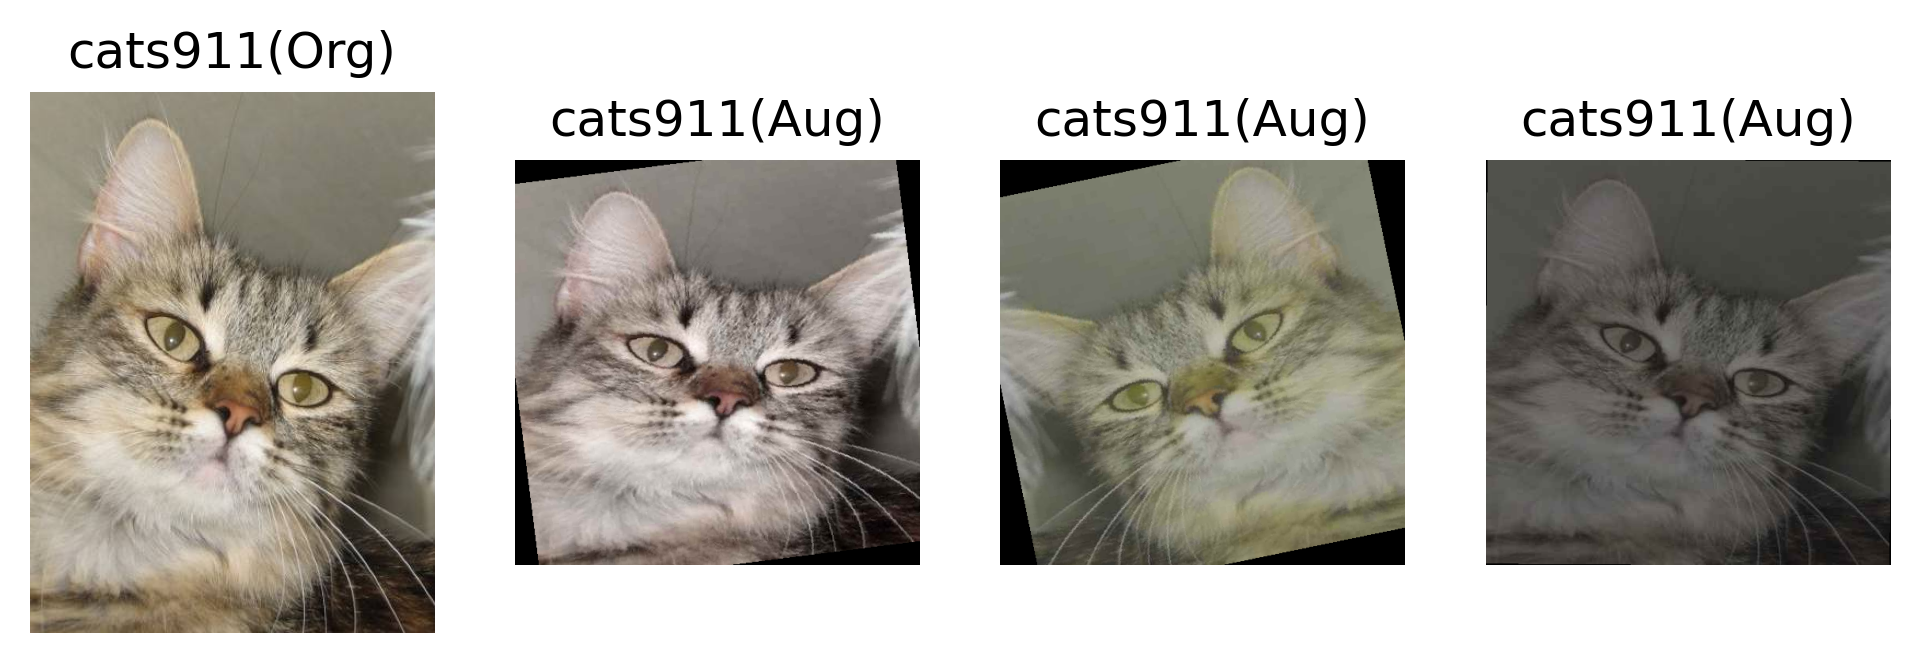
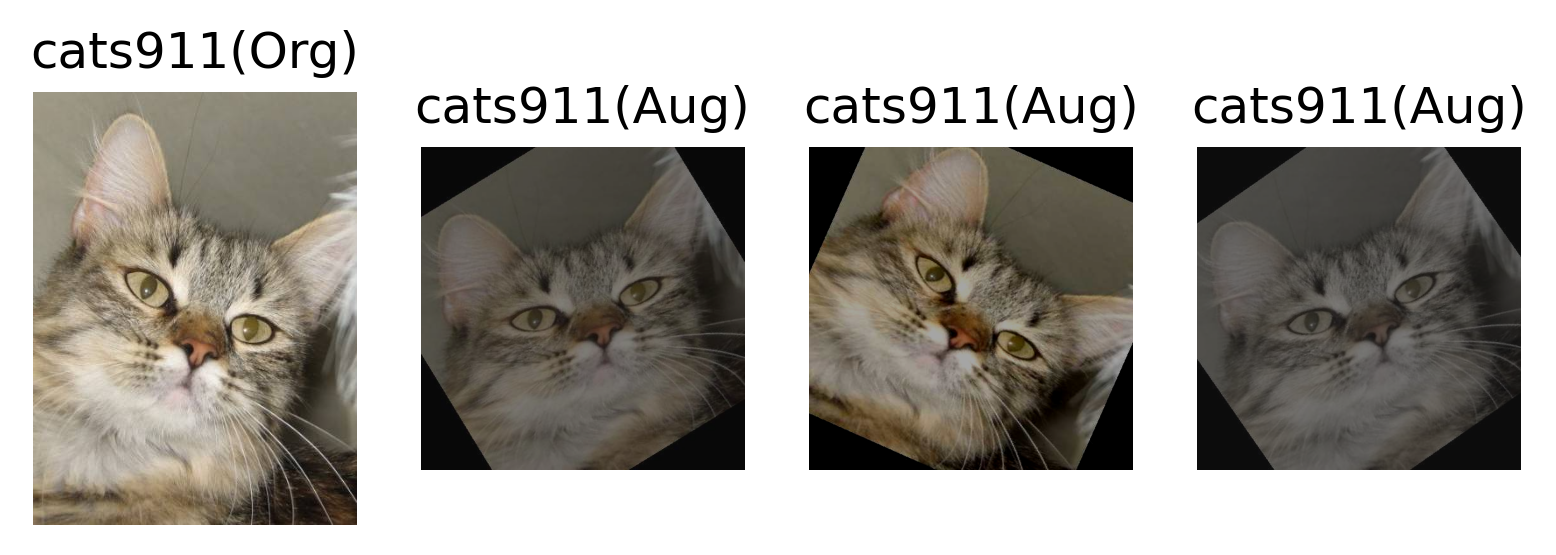
Minor fixes in dataset

diff --git a/model.py b/model.py
@@ -13,7 +13,7 @@ from datetime import datetime
 from torch.utils.data import Dataset
 from torchvision.transforms import v2
 
-# Find device to use (graphic acceleration if available)
+# Find device to use (graphic acceleration if available) (not used right now?)
 device = "cuda" if torch.cuda.is_available() else "mps" if torch.backends.mps.is_available() else "cpu"
 print("Using device: " + device)
 
@@ -22,25 +22,21 @@ train_dir = "./catdog_data/train/"
 test_dir = "./catdog_data/test/"
 valid_dir = "./catdog_data/validation/"
 
+# Seed for random numbers (based on current time, change to set fixed seed)
+rand_seed = datetime.now().timestamp()
 # Set seed for image selector
-rand_seed = 314159265
-#rand_seed = datetime.now().timestamp()
 random.seed(rand_seed)
-# Set seed for pytorch (...)
+# Set seed for pytorch
 torch.manual_seed(rand_seed)
 
 # Image transformation properties
-image_size =   [512,512]
-flip_prob =    0.5
-bright_range = [0.5,1.5]
-contr_range =  [0.5,1.5]
-satr_range =   [0.5,1.5]
-hue_range =    [-0.15, 0.15]
-deg_range =    [-15,15]
-transl_range = [0,0.15]
-scale_rage =   [0.75,1.5]
-shear_range =  [-1,1]
-qual_range =   np.random.randint(15,100)
+image_size   =   [512,512]
+flip_prob    =   0.5
+deg_range    =   [-45,45]
+qual_range   =   np.random.randint(15,100)
+bright_range =   [0.5,1.5]
+contr_range  =   [0.5,1.5]
+satr_range   =   [0.5,1.5]
 
 # Define transform to use for data augmentation
 data_transform = v2.Compose([
@@ -48,10 +44,9 @@ data_transform = v2.Compose([
     v2.RandomHorizontalFlip(p = flip_prob),             # Horizontally flip images randomly
     v2.RandomRotation(degrees = deg_range),             # Rotate and expand the image
     v2.JPEG(quality = qual_range),                      # Add JPEG compression noise randomly
-    v2.ColorJitter(brightness = bright_range,           # Randomly change brightness, contrast, saturation, hue (within reason)
+    v2.ColorJitter(brightness = bright_range,           # Randomly change brightness, contrast, saturation (within reason)
                            contrast = contr_range, 
-                           saturation = satr_range,    
-                           hue = hue_range
+                           saturation = satr_range
                            ),
 ])
 
@@ -60,14 +55,12 @@ class CatsDogsDataset(Dataset):
 
     # Initialization function for dataset
     def __init__(self, directory, transform = None):
-
         # Set the directory (train, valid, test)
         self.directory = directory
         # List of all classes to classify (folders in directory, ignores hidden files)
         self.classes = [f for f in os.listdir(directory) if not f.startswith('.')]
         # List of all the images in dataset
         self.images = self.list_images()
-
         return
     
     # Return size of dataset (numer of all images)
@@ -97,7 +90,6 @@ class CatsDogsDataset(Dataset):
         plt.axis("Off")
         plt.imshow(image)
         plt.show()
-    
         return
 
     # Just to showcase how the original and randomly transformed image
@@ -112,10 +104,8 @@ class CatsDogsDataset(Dataset):
         # Apply the transformations (a couple of times)
         n_transforms = 3
         image_transformed = np.empty(n_transforms, dtype=object)
-
         # Setup matplotlib and show/save sample figure
         fig, ax = plt.subplots(nrows=1, ncols=4)
-        fig.set_size_inches(8,3)
         # Show original
         ax[0].imshow(image)
         ax[0].set_title(rand_image)
@@ -128,26 +118,21 @@ class CatsDogsDataset(Dataset):
             ax[i+1].set_title(rand_class + str(rand_image).split(".")[1] + "(Aug)")
             ax[i+1].axis("Off")
         # Save figure
-        plt.savefig("./samples/" + rand_class.split("s")[0] + str(rand_image).split(".")[1] + ".png", bbox_inches="tight",dpi=300)
+        if save == True: plt.savefig("./samples/" + rand_class.split("s")[0] + str(rand_image).split(".")[1] + ".png", bbox_inches="tight",dpi=300)
         if show == True: plt.show()
-        
         return
     
-    # Function that returns all images in dataset
+    # Function that returns all images in dataset (their paths and names)
     def list_images(self):
-
-        arr = []
-        dir = []
+        # Define relevant arrays
+        arr, dir = [], []
+        # Iterate over all classes, and over all files in each class subfolder
         for class_type in self.classes:
             for file in os.listdir(self.directory + class_type + "/"):
+                # Append file path and file to arrays
                 dir.append(self.directory + class_type + "/" + file)
                 arr.append(file)
-
         return arr
 
 train_dataset = CatsDogsDataset(train_dir)
-#train_dataset.show_random()
-#print(train_dataset.__len__())
-#train_dataset[0]
-
-train_dataset.show_random_transform()
+train_dataset.show_random_transform(show=True, save=False)
